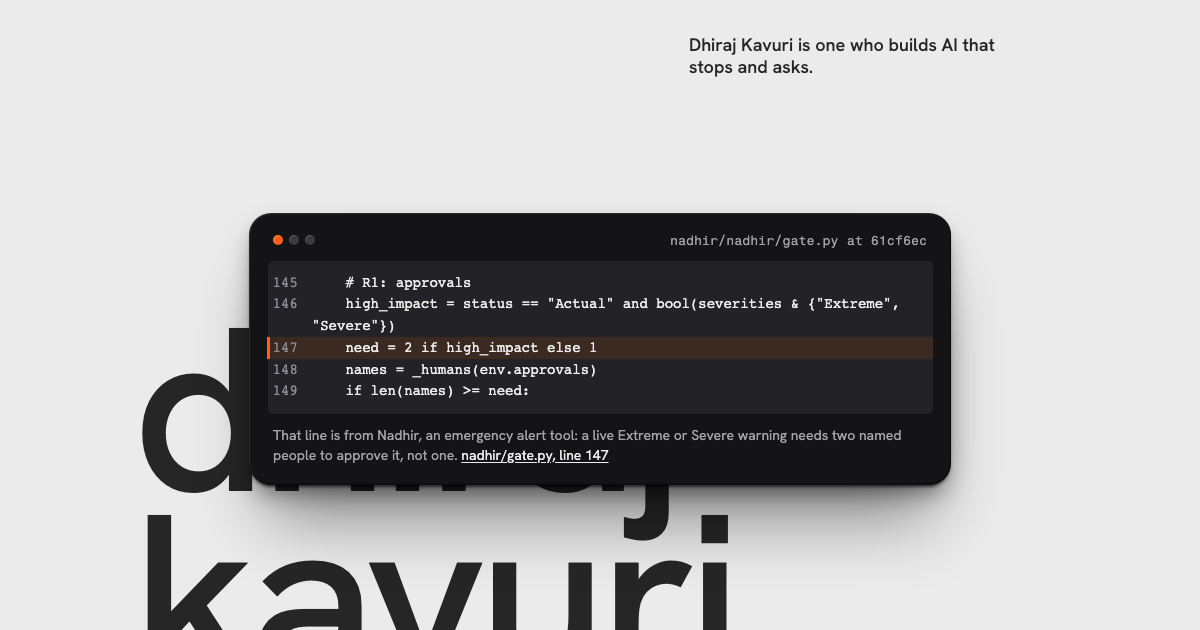
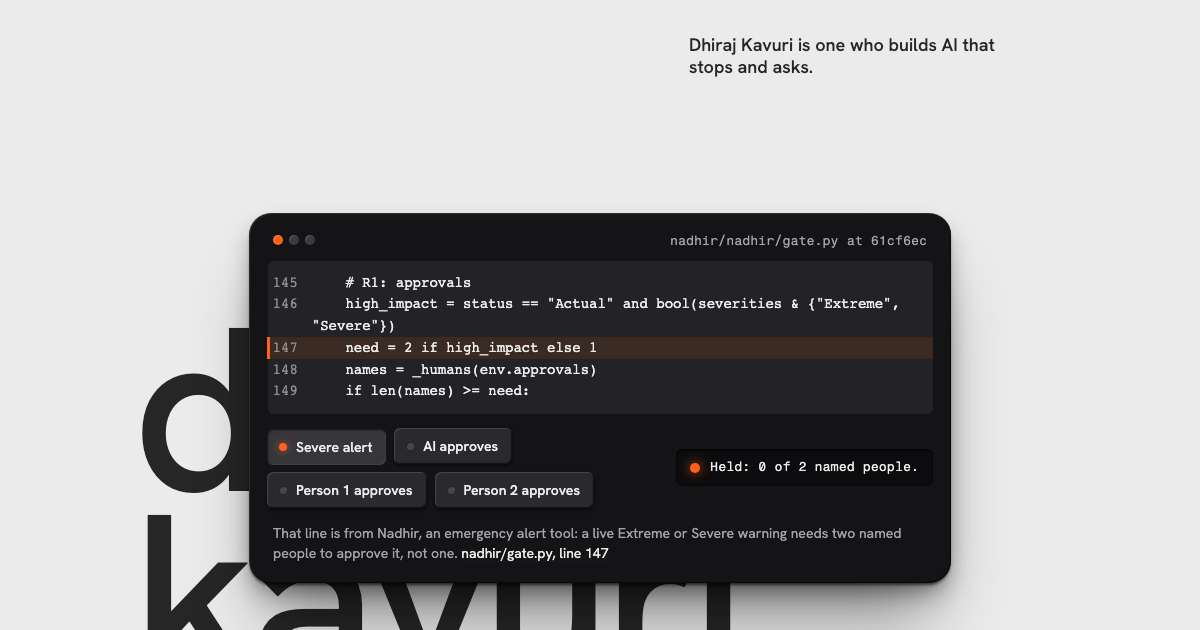
Make the hero code panel a working device that runs line 147's rule; add the load sequence, scroll motion, a cleaner lower page, and three new prizes

Changed region(s): [[0.185, 0.6635, 0.8017, 1.0]]

diff --git a/src/theme.css b/src/theme.css
@@ -105,3 +105,64 @@ a { color: var(--ink); }
 .work { padding-top: 110px; }
 .work h1 { font-size: clamp(36px, 4.6vw, 76px); line-height: 1; margin: 24px 0 28px; font-weight: 500; letter-spacing: -0.03em; }
 .work > :not(h1) { max-width: 920px; }
+
+/* ---- The device: keys under the code run line 147's rule. ---- */
+.gate { margin: 14px 0 4px; display: grid; grid-template-columns: 1fr auto; gap: 12px; align-items: center; }
+.gate[hidden] { display: none; }
+.keys { display: flex; flex-wrap: wrap; gap: 8px; }
+.key { font: 500 14px/1 "Hanken Grotesk", ui-sans-serif, system-ui, sans-serif; color: var(--dev-ink); background: #2a2a2e; border: 0; border-radius: 6px; padding: 11px 14px 11px 12px; display: inline-flex; align-items: center; gap: 9px; cursor: pointer;
+  box-shadow: inset 1px 1px 1px rgb(255 255 255 / 0.14), inset -1px -1px 1px rgb(0 0 0 / 0.6), 0 2px 3px rgb(0 0 0 / 0.5); }
+.key i { width: 8px; height: 8px; border-radius: 50%; background: #45454b; box-shadow: inset 1px 1px 0 rgb(0 0 0 / 0.5); }
+.key[aria-pressed="true"] { background: #36363b; transform: translateY(1px); box-shadow: inset 1px 1px 2px rgb(0 0 0 / 0.6), inset -1px -1px 0 rgb(255 255 255 / 0.06); }
+.key[aria-pressed="true"] i { background: var(--orange); box-shadow: 0 0 10px rgb(255 97 26 / 0.7); }
+.key:focus-visible { outline: 3px solid var(--orange); outline-offset: 2px; }
+.gate-status { margin: 0; display: inline-flex; align-items: center; gap: 10px; font: 13px/1.3 "Fragment Mono", ui-monospace, monospace; color: var(--dev-ink); background: #0c0c0e; border-radius: 6px; padding: 10px 14px; box-shadow: inset 0 1px 3px rgb(0 0 0 / 0.8); }
+.led { width: 10px; height: 10px; border-radius: 50%; background: var(--orange); box-shadow: 0 0 12px rgb(255 97 26 / 0.8); flex: none; }
+.gate-status[data-state="released"] .led { background: #3ad07a; box-shadow: 0 0 12px rgb(58 208 122 / 0.8); }
+@media (max-width: 700px) { .gate { grid-template-columns: 1fr; } }
+
+/* ---- Load: the name rises letter by letter, the device drops in and settles, the rule lights. ---- */
+.giant b { display: inline-block; font-weight: inherit; }
+@media (prefers-reduced-motion: no-preference) {
+  .giant b { animation: rise 900ms cubic-bezier(.16, 1, .3, 1) both; animation-delay: calc(var(--c) * 45ms + 60ms); }
+  .hero .proof { animation: dropin 900ms cubic-bezier(.2, 1.3, .35, 1) 380ms both; }
+  .hero .proof .ln.hot::before { animation-delay: 1150ms; }
+  .hero .proof .ln { animation-delay: 900ms; }
+  .hero .proof .ln:nth-child(2) { animation-delay: 960ms; } .hero .proof .ln:nth-child(3) { animation-delay: 1020ms; } .hero .proof .ln:nth-child(4) { animation-delay: 1080ms; } .hero .proof .ln:nth-child(5) { animation-delay: 1140ms; }
+  .gate .led { animation: blink 1.6s ease-in-out 1.6s 2; }
+  /* Each time a key is pressed, line 147 flashes: the rule just ran. */
+  .proof pre.eval .ln.hot::before { animation: run 520ms ease-out both; }
+  .gate-status span { display: inline-block; }
+  .key { transition: transform 120ms, box-shadow 120ms, background 160ms; }
+  .key i { transition: background 160ms, box-shadow 160ms; }
+}
+@keyframes rise { from { transform: translateY(0.55em); clip-path: inset(0 0 100% 0); } to { transform: none; clip-path: inset(0 0 -20% 0); } }
+@keyframes dropin { 0% { transform: translateY(-46px) rotate(-1.4deg); opacity: 0; } 60% { opacity: 1; } 100% { transform: none; opacity: 1; } }
+@keyframes blink { 50% { opacity: 0.25; } }
+@keyframes run { 0% { background: #ff611a; } 100% { background: var(--hot); } }
+
+/* ---- Scroll: the giant name drifts up as you leave the first screen; the statement inks in. ---- */
+@supports (animation-timeline: scroll()) {
+  @media (prefers-reduced-motion: no-preference) {
+    .giant { animation: drift-up linear both; animation-timeline: scroll(root); animation-range: 0 90vh; }
+    .lede .intro .w { animation: ink linear both; animation-timeline: view(); animation-range: entry 10% cover 45%; }
+  }
+}
+@keyframes drift-up { to { transform: translateY(-14vh); opacity: 0.35; } }
+@keyframes ink { from { color: #858585; } to { color: var(--ink); } }
+
+/* ---- Cleaner below the fold: fewer underlines, one card per product, calmer rhythm. ---- */
+main a { text-decoration-thickness: 1px; text-underline-offset: 3px; text-decoration-color: rgb(38 38 38 / 0.35); }
+main a:hover { text-decoration-color: currentColor; }
+.more, .links { gap: 8px; }
+.more a, .rest .links a, .work .links a { text-decoration: none; font-size: 15px; padding: 6px 12px; border-radius: 999px; box-shadow: inset 0 0 0 1px #bdbdbd; color: var(--ink); }
+.more a:hover, .rest .links a:hover, .work .links a:hover { box-shadow: inset 0 0 0 1px var(--ink); }
+.clause details[open] { background: #e3e3e3; border-radius: 6px; padding: 0 28px 24px; margin: 0 -28px; }
+.clause summary { padding: 28px 0; }
+.clause .label { margin-top: 22px; }
+.lede .howto { margin-top: 28px; }
+h2 { letter-spacing: 0; }
+@media (max-width: 700px) { .clause details[open] { padding: 0 16px 20px; margin: 0 -16px; } }
+.won { display: inline-flex; align-items: center; gap: 8px; font-size: 15px; font-weight: 500; color: var(--ink); margin: 6px 0 0; }
+.won::before { content: ""; width: 8px; height: 8px; border-radius: 50%; background: var(--orange); }
+summary .won { display: flex; }
